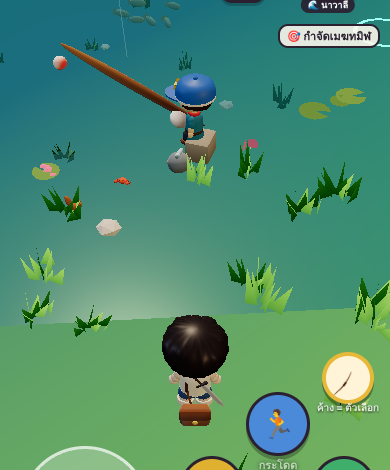
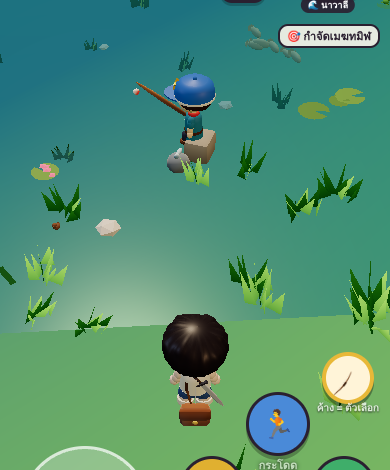
feat(newgame): NPC fishing rod about sword size (D.NPCLIFE_ROD)
Claude-Session: https://claude.ai/code/session_01GPWeNez232vT9ersFNk7wt

diff --git a/newgame/src/main.js b/newgame/src/main.js
@@ -4597,7 +4597,7 @@ function lifeSpot(key, x0, z0) { if (key in LIFESP) return LIFESP[key]; let best
 function lifeTick(k, n, key) { const A = KNPC[key], cur = LIFEA[key], L = A && !A.cap && !A.ref ? lifeAway(k, n) : null;
   if (L && !cur) { const sp = lifeSpot(key, A.A.root.position.x, A.A.root.position.z); if (!sp) return; const g = new THREE.Group(), body = new THREE.Group(); HUMANS.villager(body, n.v, npcLook(k, n), KHAT[k] && (n.lead || idHash({ id: n.id }) % 2) ? KHAT[k] : null); body.scale.setScalar(.82);
     const seat = .42; body.position.y = sitPose(body, seat / .82) * .82; g.add(body); rbox(g, '#7c776c', '#a8a296', [0, seat / 2, -.12], [.55, seat, .45], [0, 0, 0], .06);   /* a stone to sit on */
-    const hand = body.getObjectByName('handR'); if (hand && L.act === 'fish') { const r = new THREE.Group(); YMESH.rod(r); r.scale.setScalar(2.4); r.rotation.x = 1.0; hand.add(r) }
+    const hand = body.getObjectByName('handR'); if (hand && L.act === 'fish') { const r = new THREE.Group(); YMESH.rod(r); r.scale.setScalar(D.NPCLIFE_ROD); r.rotation.x = .9; hand.add(r) }
     if (L.act === 'fish') { const b = new THREE.Group(); part(b, '#5a6a7a', '#8a9aaa', [0, .18, 0], [.2, .18, .2], [0, 0, 0], { A: 0 }); for (let i = 0; i < 2; i++) part(b, '#6aa0c8', '#c8e8ff', [(i - .5) * .12, .36, 0], [.12, .05, .04], [0, 0, i * .6], { A: 0 }); b.position.set(.55, 0, .1); g.add(b) }   /* a bucket with fish */
     g.position.set(sp.x, groundH(sp.x, sp.z), sp.z); g.rotation.y = sp.yaw; g.traverse(o => { if (o.isMesh) o.castShadow = !eco }); scene.add(g);
     const sign = new THREE.Sprite(new THREE.SpriteMaterial({ map: emojiTex(L.sign), transparent: true })); sign.scale.setScalar(1.4); const hp = A.hsol && A.hsol.x != null ? A.hsol : A.A.root.position; sign.position.set(hp.x, groundH(hp.x, hp.z) + 3.4, hp.z);   /* over his door */ scene.add(sign);

diff --git a/newgame/src/data.js b/newgame/src/data.js
@@ -351,7 +351,7 @@ export const TEMPER = { slime: 1.8, grassSprite: 2.6, branchImp: 3, rockGolem: 2
 export const FISH_EN = { B: 15, R: 25, E: 40, L: 60 };                    // extra ⚡ (yellow, over the max) from eating a fish · herbal tea and some dishes too
 export const EN_BONUS_MAX = 100;
 export const PERF = { from: 8000, span: 20000, low: 22 };   // v5.01 📱 sample fps from..from+span ms of play · below `low` (high-quality mode) = offer the eco mode once
-export const NPCLIFE_ON = false;   // v5.05 waits for the designer's OK on the preview
+export const NPCLIFE_ON = false, NPCLIFE_ROD = 1.15;   // rod size in the hand (designer: about a sword / a branch)   // v5.05 waits for the designer's OK on the preview
 export const NPCLIFE = { tapun: { k: 'navalee', act: 'fish', p: .5, from: 7 * 60, to: 18 * 60, sign: '🎣', away: 'ไปตกปลา', say: 'ชู่ว… เบาๆ หน่อย ปลากำลังจะกินเบ็ด · ได้ปลามาข้าจะเอาไปขายที่ตลาดนะ' } };   // v5.05 🧑🌾 (designer) NPCs live their day: p = chance per day to go out · from–to = minutes of the day
 export const FIRE_REST = { en: 2, auto: 2500, crackle: 1400 };   // v4.99 🔥 (designer) sit by a lit fire: ⚡ ×en · standing still auto ms = sit down by itself · a crackle every ~ms
 export const PARRY2 = { tell: 380, win: 300, stun: 1100, counter: 2, cwin: 1600, stop: 220 };   // v5.00 🛡 (designer: game feel) B pressed ≤win ms before a hit = perfect parry: no damage · the foe staggers stun ms · your next hit within cwin ms ×counter
